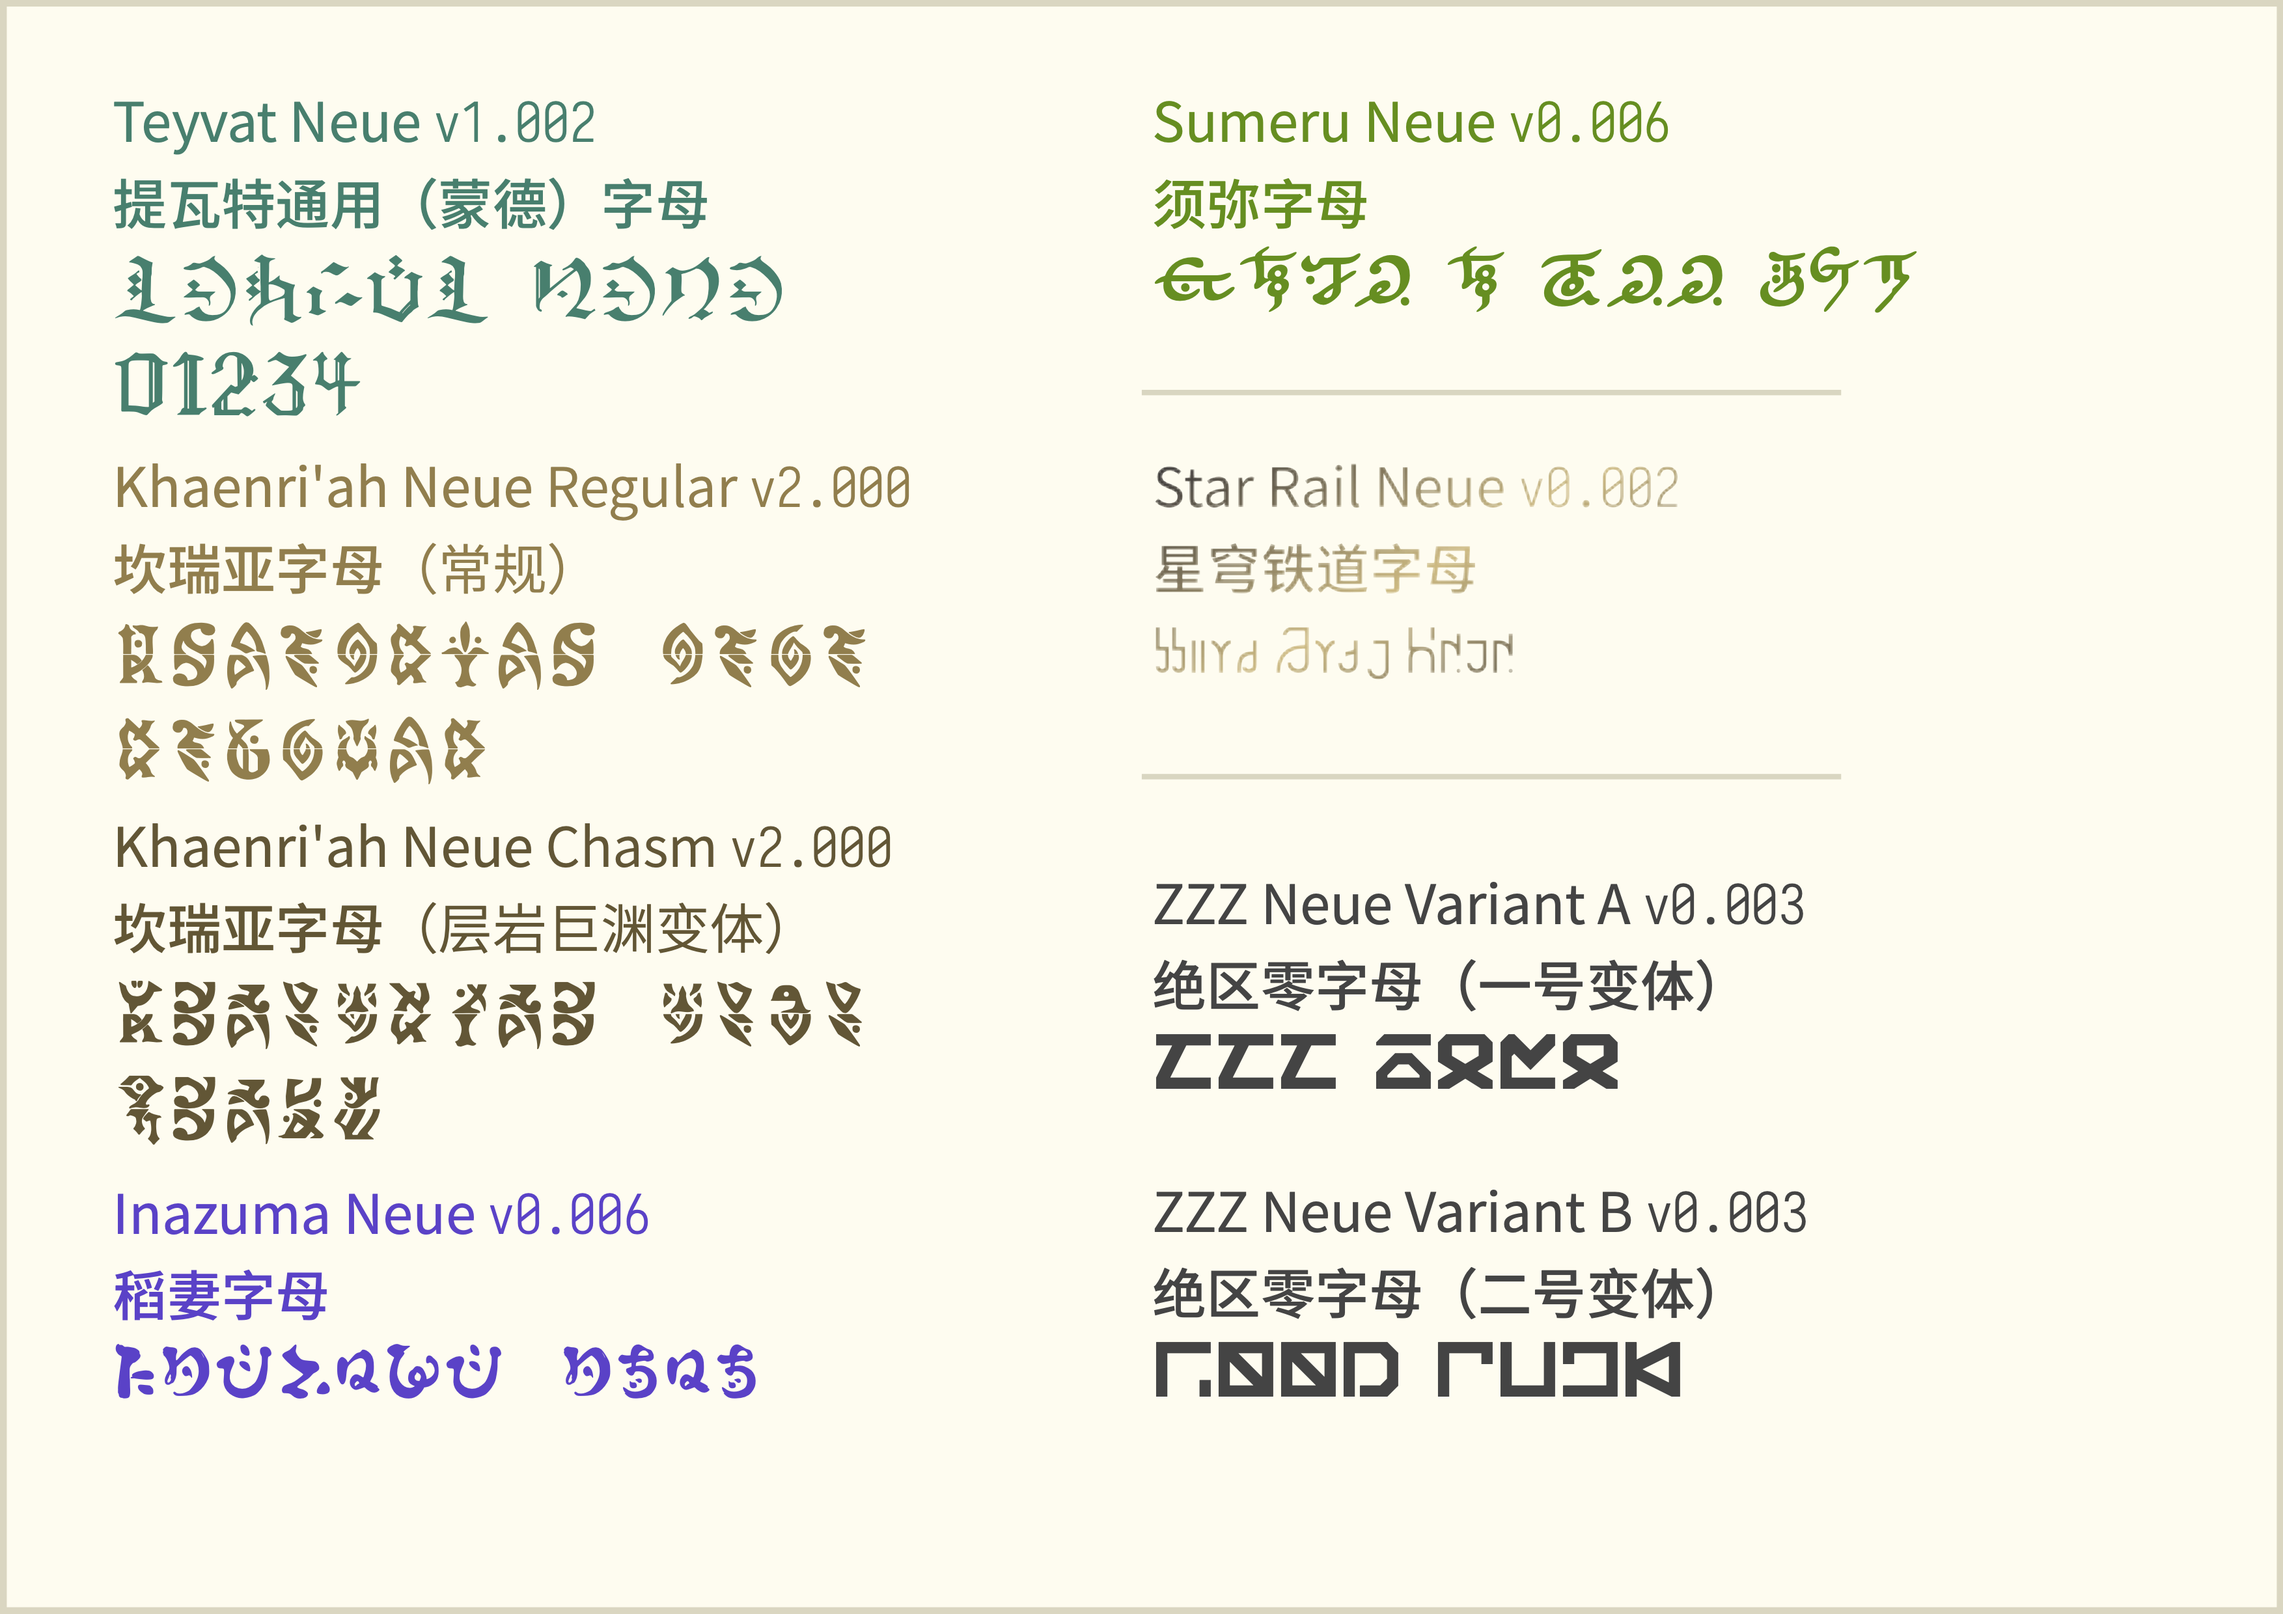
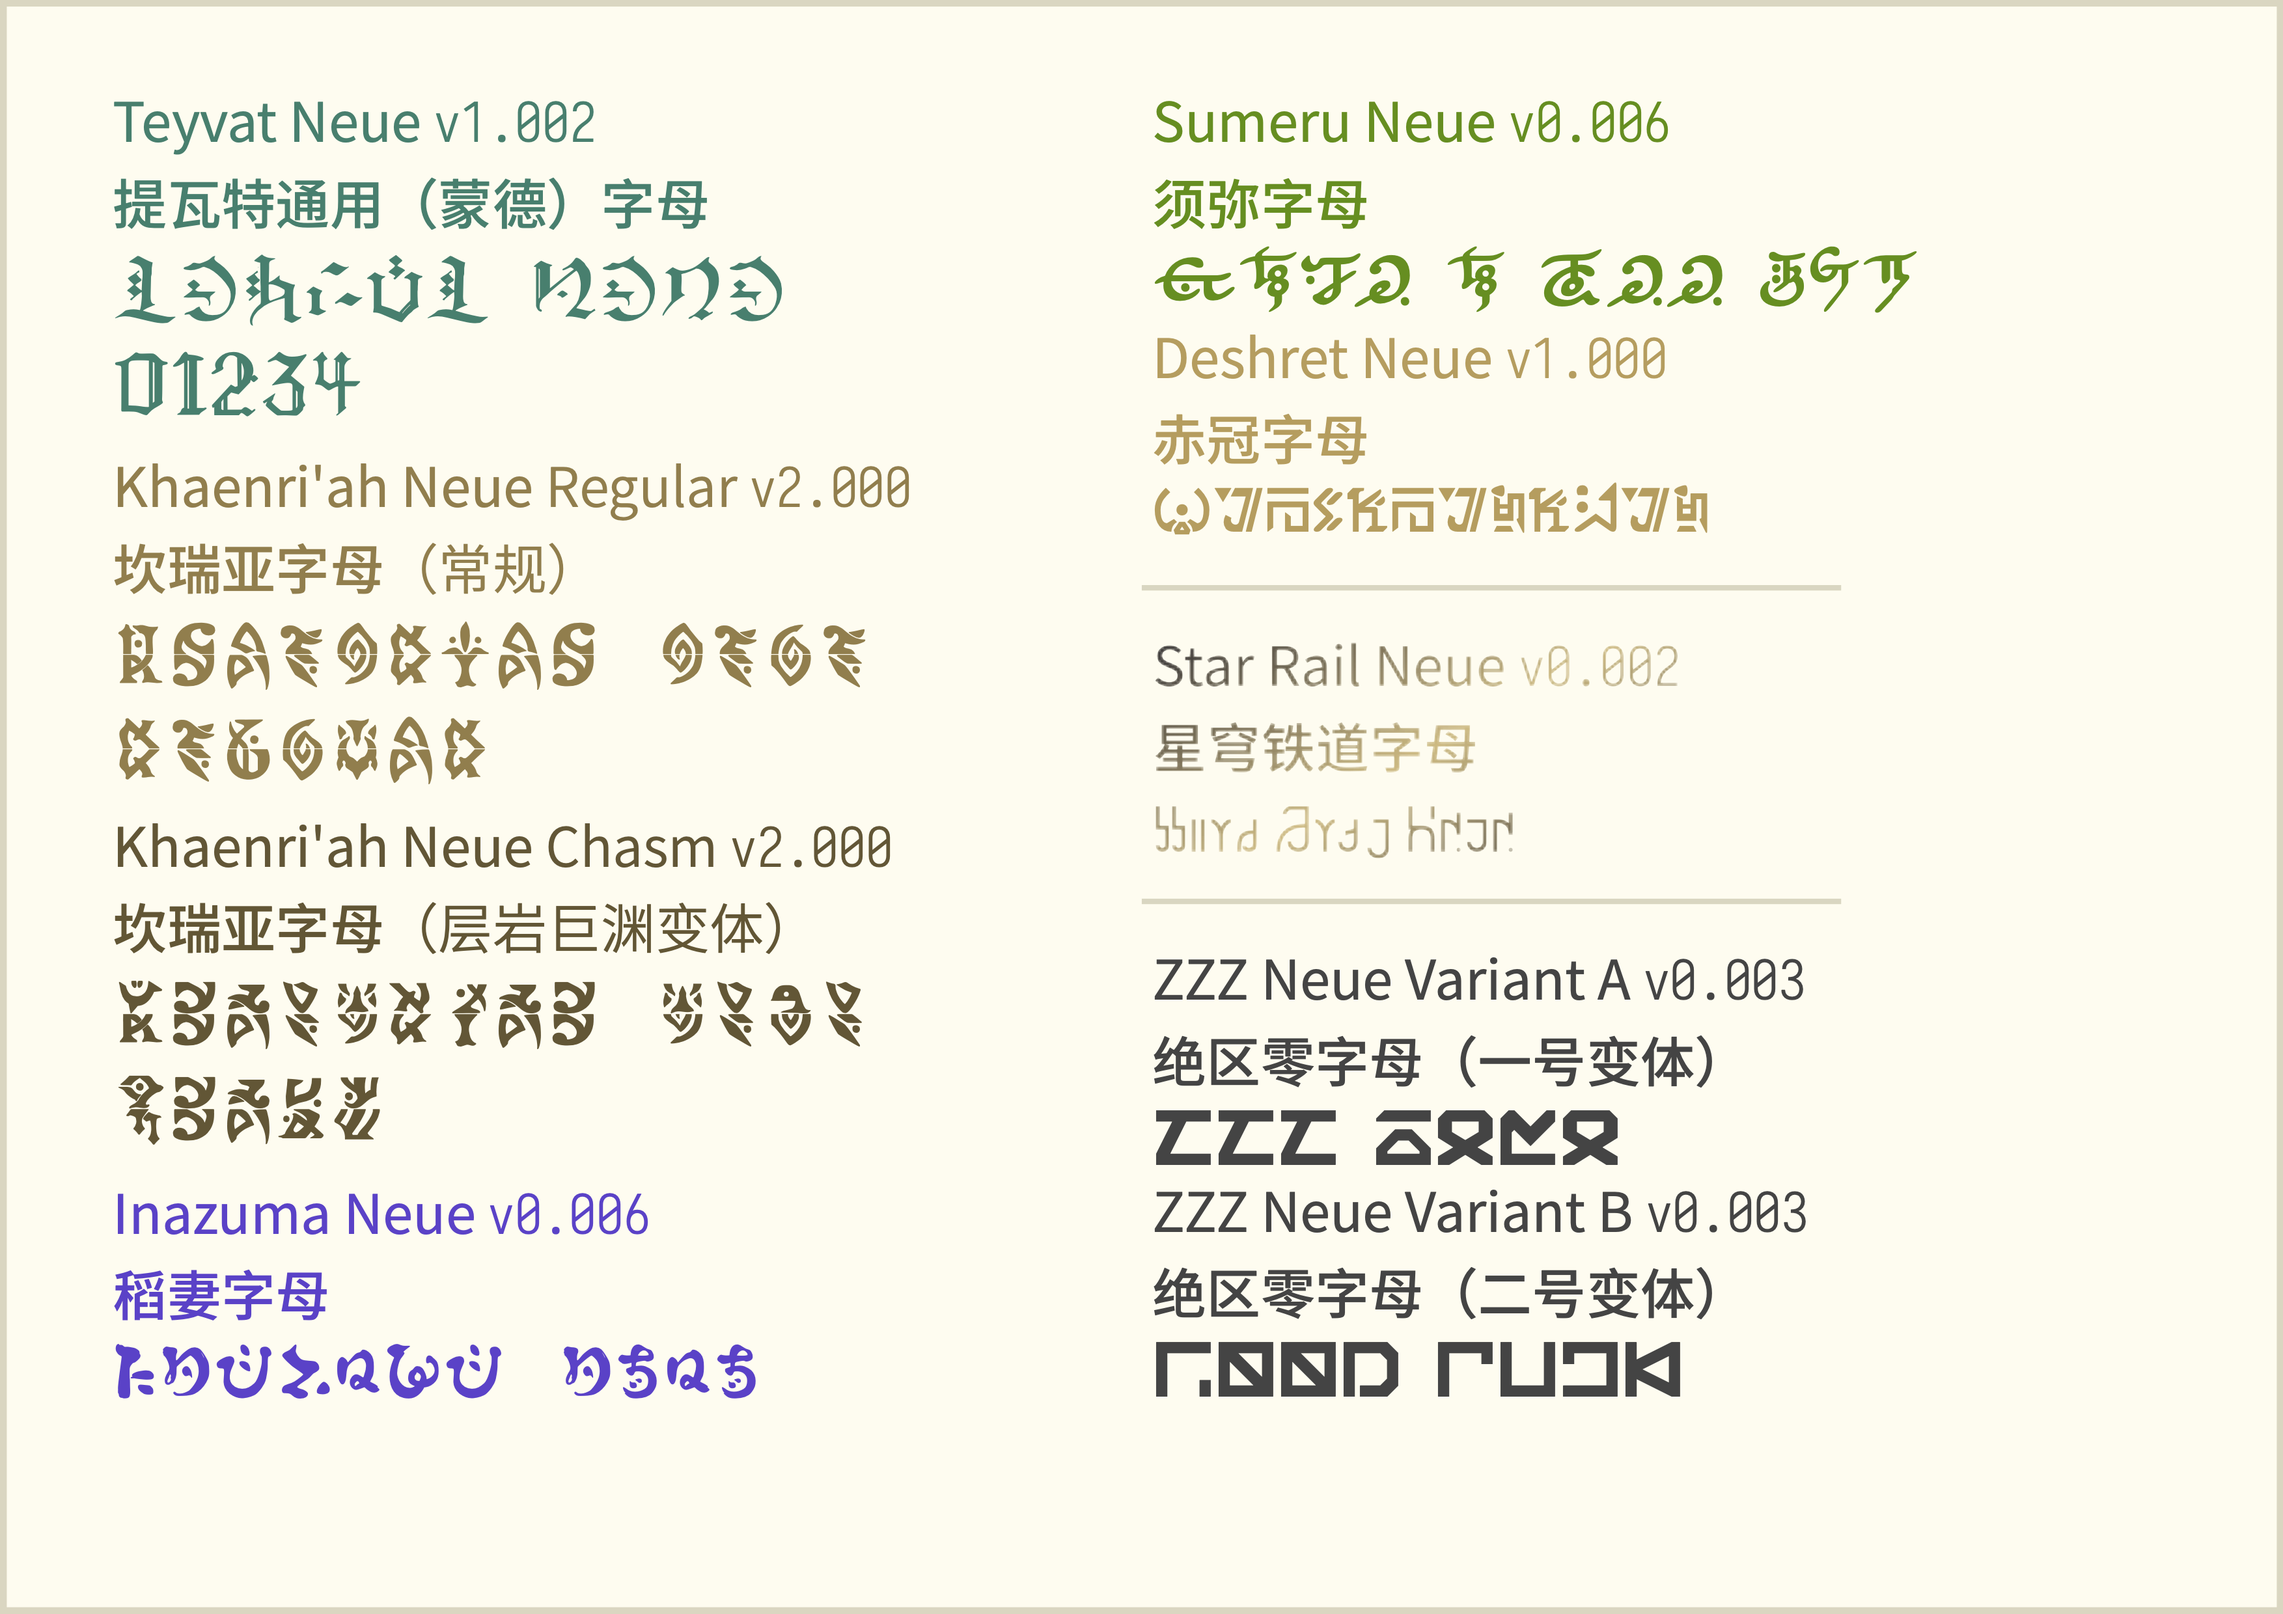
Add Deshret Neue

Changed region(s): [[0.4973, 0.2173, 0.8081, 0.7452]]

diff --git a/download_en.md b/download_en.md
@@ -9,6 +9,7 @@
 - [Teyvat Glyph](font/genshin-impact/TeyvatNeue-Regular-1.002.otf)
 - [Inazuma Glyph](font/genshin-impact/InazumaNeue-Regular-0.006.otf)
 - [Sumeru Glyph](font/genshin-impact/SumeruNeue-Regular-0.006.otf)
+- [Deshret Glyph](font/genshin-impact/DeshretNeue-Regular-1.000.otf)
 - [Khaenri'ah Glyph](font/genshin-impact/KhaenriahNeue-Regular-2.000.otf)
 - [Khaenri'ah Glyph - The Chasm's Variant](font/genshin-impact/KhaenriahNeue-Chasm-2.000.otf)
 - [Honkai Star Rail Glyph](font/honkai-star-rail/StarRailNeue-Regular-0.002.otf)

diff --git a/download.md b/download.md
@@ -9,6 +9,7 @@
 - [提瓦特字母](font/genshin-impact/TeyvatNeue-Regular-1.002.otf)
 - [稻妻字母](font/genshin-impact/InazumaNeue-Regular-0.006.otf)
 - [须弥字母](font/genshin-impact/SumeruNeue-Regular-0.006.otf)
+- [赤冠字母](font/genshin-impact/DeshretNeue-Regular-1.000.otf)
 - [坎瑞亚字母](font/genshin-impact/KhaenriahNeue-Regular-2.000.otf)
 - [坎瑞亚字母层岩巨渊变体](font/genshin-impact/KhaenriahNeue-Chasm-2.000.otf)
 - [星穹铁道字母](font/honkai-star-rail/StarRailNeue-Regular-0.002.otf)

diff --git a/README_en.md b/README_en.md
@@ -31,8 +31,8 @@ A tick means the font of this writing system is ready to use from this repositor
 - [X] Inazuma Script
 - [X] Khaenri'ah Script
 - [X] Khaenri'ah Script - The Chasm's Variant
-- [X] Sumeru Script (temporary name)
-- [ ] Sumeru Script - Desert's Variant (temporary name)
+- [X] Sumeru Script
+- [X] Deshret Script
 
 ### Honkai - Star Rail
 

diff --git a/README.md b/README.md
@@ -29,8 +29,8 @@
 - [X] 稻妻文字
 - [X] 坎瑞亚文字
 - [X] 坎瑞亚文字 - 层岩巨渊变体
-- [X] 须弥文字（暂定）
-- [ ] 须弥文字 - 沙漠变体（暂定）
+- [X] 须弥文字
+- [X] 赤冠文字
 
 ### 《崩坏·星穹铁道》
 
